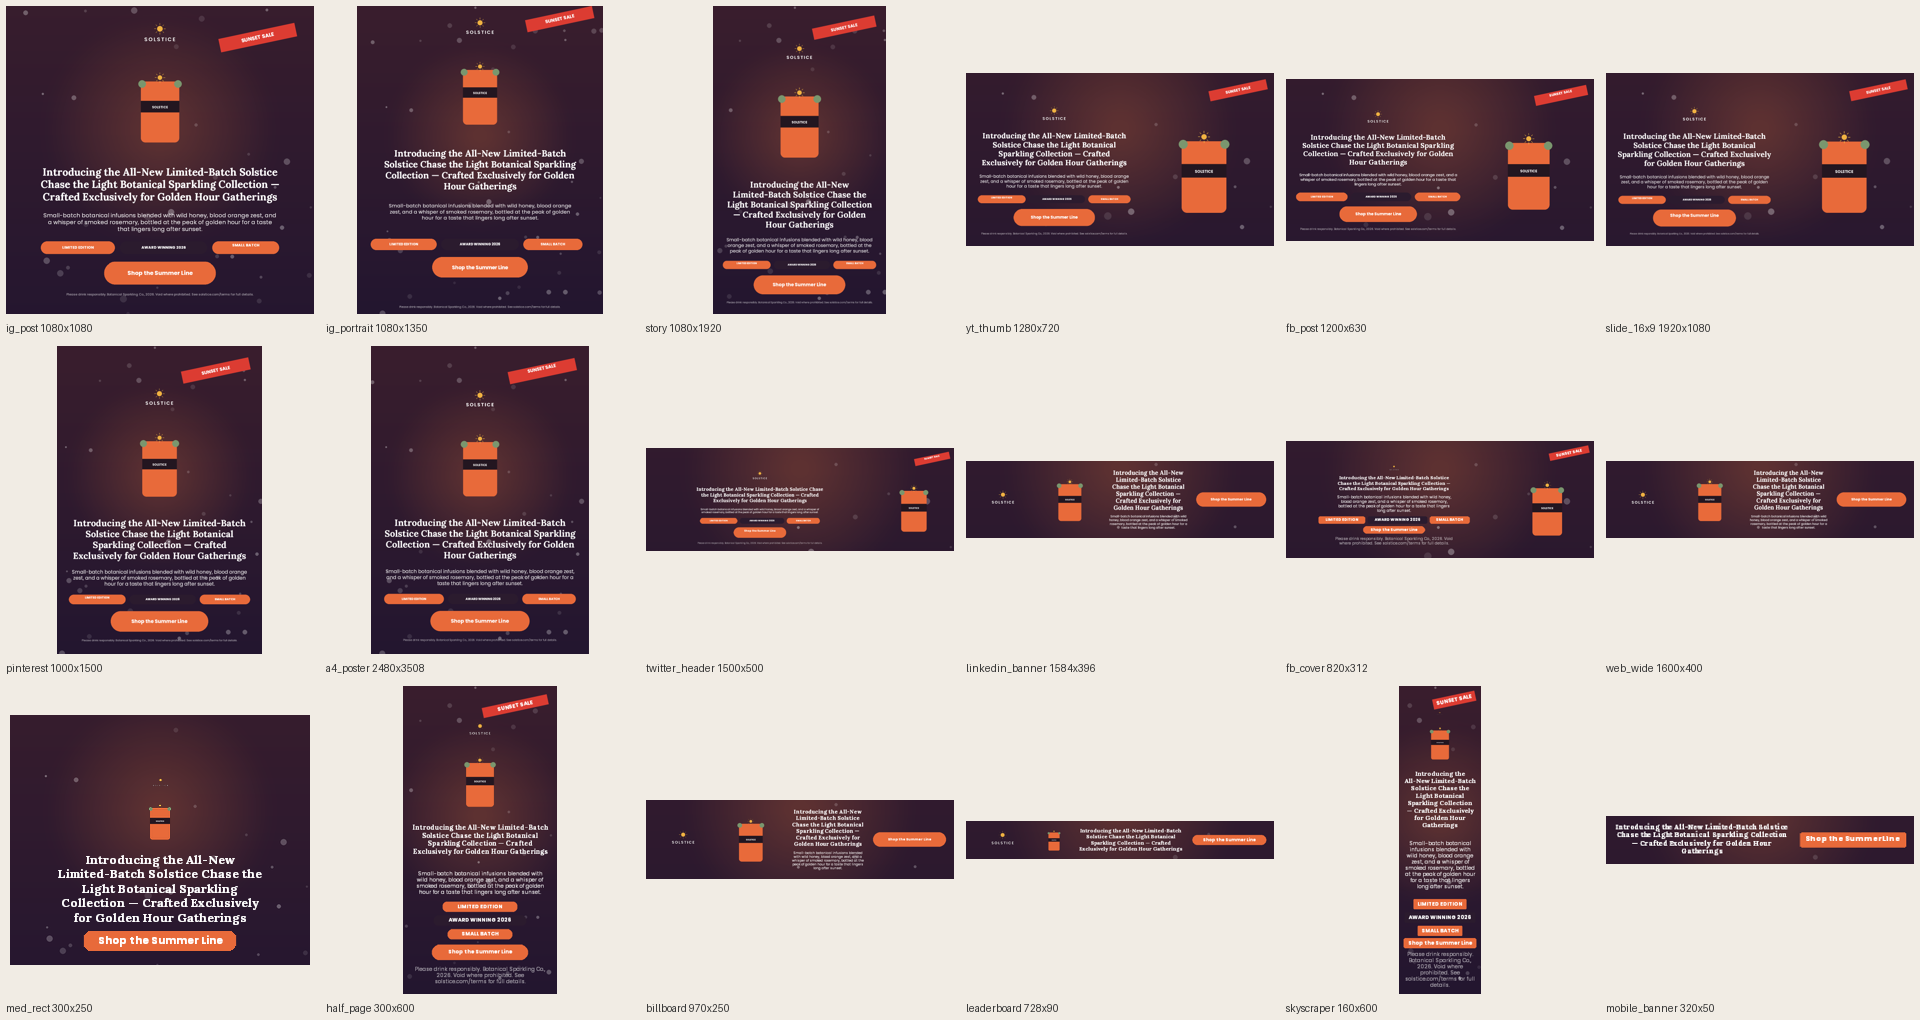
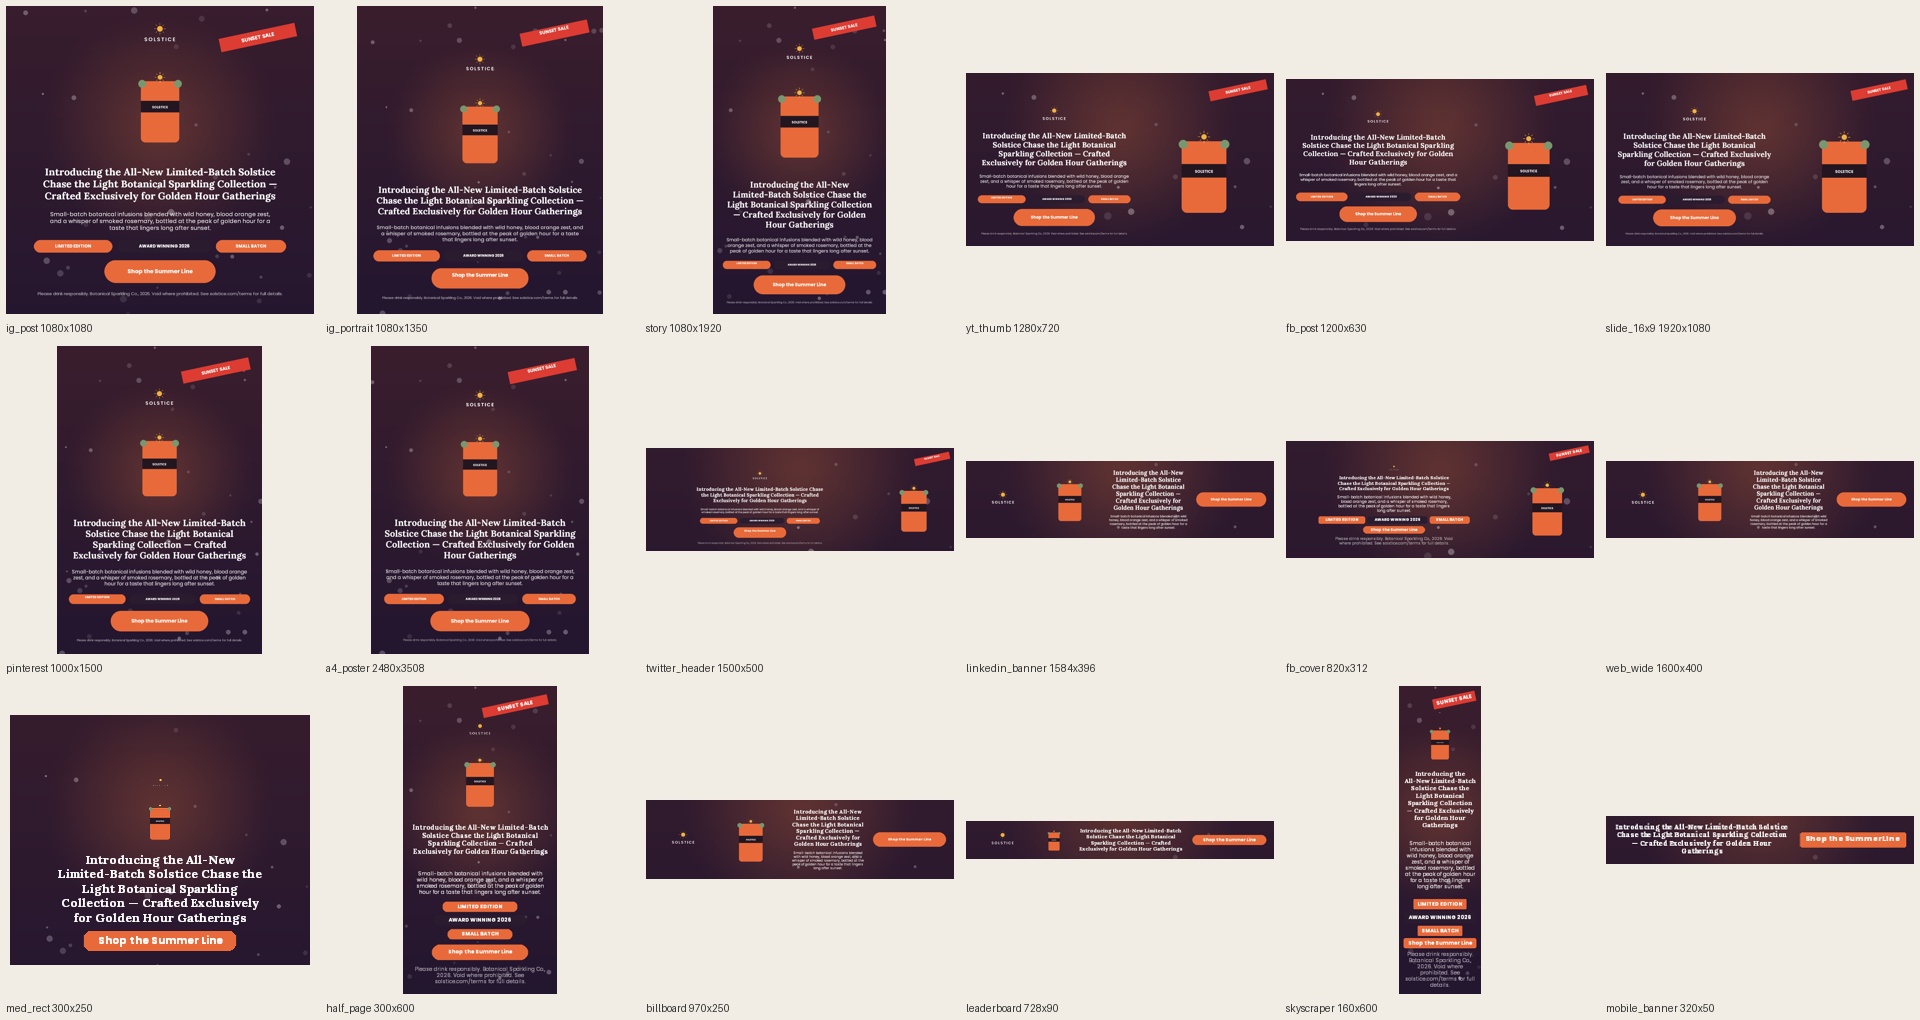
Merge best of aditi branch: regression suite, scaled font floor
- tests/test_resize.py: Aditi's regression suite adapted to this engine's
  contract (216 sample/variant/format cases plus determinism, input
  immutability, injected failures, missing fonts, cwd independence,
  no network, long tokens, missing asset, same-shape preservation)
- Minimum readable font now grows with the canvas (10/12px up to
  15/18px on posters), from Aditi's readable_minimum idea
- Fix: the emergency fallback now hides missing assets too (found by
  Aditi's long-headline variant at 300x250 and 320x50)
- README: three-way team comparison and test instructions

Aditi's IDE files (.idea/) and her alternative engine were not merged;
her engine had 10 text collisions and 81 sub-9px texts on the stress test.

Claude-Session: https://claude.ai/code/session_01JiDhXr6kG7eY4r3guwMKDf

Changed region(s): [[0.1875, 0.0, 0.3125, 0.3039], [0.0, 0.152, 0.1562, 0.3039], [0.0312, 0.5167, 0.125, 0.5471]]

diff --git a/tests/test_resize.py b/tests/test_resize.py
@@ -1,0 +1,249 @@
+"""Offline regression suite: python -m unittest discover -s tests -v
+
+Adapted from the `aditi` branch's suite to this engine's contract. Each
+sample is run as-is and as 8 harder variants (long copy, extra badges, many
+texts, a missing asset, one image, no CTA, no groups) across 8 common
+formats, plus robustness checks (determinism, input immutability, injected
+failures, missing fonts, working directory, no network, long tokens).
+"""
+
+from copy import deepcopy
+import json
+from math import cos, isfinite, radians, sin
+import os
+from pathlib import Path
+from tempfile import TemporaryDirectory
+import unittest
+from unittest.mock import patch
+
+import engine.resize as engine
+
+ROOT = Path(__file__).resolve().parents[1]
+FORMATS = [(1080, 1920), (1280, 720), (728, 90), (820, 312),
+           (1000, 1500), (300, 600), (1600, 400), (1080, 1080)]
+TASKS = [json.loads(path.read_text()) for path in sorted((ROOT / "input").glob("*.json"))]
+
+# fields the engine must never touch (font_size and geometry may change)
+PROTECTED = ("id", "type", "content", "font_family", "font_weight", "font_style",
+             "asset_id", "group_id", "z_index", "rotation", "shape_type",
+             "text_align", "line_height", "letter_spacing", "stroke_color")
+
+
+def variants(source):
+    yield "original", deepcopy(source)
+    for name in ("long_headline", "long_subhead", "extra_badges", "many_texts",
+                 "missing_asset", "one_image", "no_cta", "no_groups"):
+        result = deepcopy(source)
+        texts = sorted((e for e in result["elements"] if e["type"] == "text"),
+                       key=lambda e: -e["font_size"])
+        if name in ("long_headline", "long_subhead"):
+            text = texts[min(1 if name == "long_subhead" else 0, len(texts) - 1)]
+            text["content"] = (text["content"] + " ") * 6
+        elif name == "extra_badges":
+            for i in range(4):
+                group = f"extra_badge_{i}"
+                x, y = 20 + i * 150, source["canvas"]["height"] * 0.3
+                result["elements"].extend([
+                    dict(id=group, type="shape", shape_type="rectangle", fill_color="rgba(90,40,20,0.5)",
+                         x=x, y=y, width=140, height=40, group_id=group, z_index=3),
+                    dict(id=group + "_text", type="text", content=f"BADGE {i}", font_family="Solstice Sans",
+                         font_size=14, color="rgba(255,255,255,1)", x=x + 5, y=y + 5,
+                         width=130, height=30, group_id=group, z_index=4),
+                ])
+        elif name == "many_texts":
+            for i in range(12):
+                text = deepcopy(texts[-1])
+                text.update(id=f"small_text_{i}", content=f"Additional detail {i}", font_size=12,
+                            x=20 + (i % 4) * 200, y=150 + (i // 4) * 80, width=180, height=45)
+                text.pop("group_id", None)
+                result["elements"].append(text)
+        elif name == "missing_asset":
+            next(e for e in result["elements"] if e["type"] == "image")["asset_id"] = "missing-test.png"
+        elif name == "one_image":
+            images = [e for e in result["elements"] if e["type"] == "image"]
+            keep = images[-1]["id"]
+            result["elements"] = [e for e in result["elements"] if e["type"] != "image" or e["id"] == keep]
+        elif name == "no_cta":
+            result["elements"] = [e for e in result["elements"] if not e["id"].startswith("cta")]
+        elif name == "no_groups":
+            for element in result["elements"]:
+                element.pop("group_id", None)
+        yield name, result
+
+
+def _hidden(element):
+    return (element.get("opacity", 1) or 0) <= 0
+
+
+def _box(e):
+    return e["x"], e["y"], e["x"] + e["width"], e["y"] + e["height"]
+
+
+def _overlap(a, b):
+    w = min(a[2], b[2]) - max(a[0], b[0])
+    h = min(a[3], b[3]) - max(a[1], b[1])
+    return w * h if w > 0 and h > 0 else 0.0
+
+
+class ResizeTests(unittest.TestCase):
+    def assert_contract(self, source, target, output):
+        self.assertEqual(output["canvas"], target)
+        self.assertEqual(set(output), {"canvas", "elements"})
+        self.assertEqual([e["id"] for e in output["elements"]], [e["id"] for e in source["elements"]])
+        sw, sh = source["canvas"]["width"], source["canvas"]["height"]
+        width, height = target["width"], target["height"]
+        for original, result in zip(source["elements"], output["elements"]):
+            eid = original["id"]
+            for key in PROTECTED:
+                self.assertEqual(original.get(key), result.get(key), (eid, key))
+            if not _hidden(result):  # hidden text also gets a transparent colour
+                for key in ("color", "fill_color", "style_runs"):
+                    self.assertEqual(original.get(key), result.get(key), (eid, key))
+            for key in ("x", "y", "width", "height"):
+                self.assertTrue(isfinite(result[key]) and result[key] >= -1e-6, (eid, key))
+            self.assertLessEqual(result["x"] + result["width"], width + 1e-6, eid)
+            self.assertLessEqual(result["y"] + result["height"], height + 1e-6, eid)
+            angle = radians(result.get("rotation", 0) or 0)
+            rw = abs(cos(angle)) * result["width"] + abs(sin(angle)) * result["height"]
+            rh = abs(sin(angle)) * result["width"] + abs(cos(angle)) * result["height"]
+            cx, cy = result["x"] + result["width"] / 2, result["y"] + result["height"] / 2
+            self.assertGreaterEqual(cx - rw / 2, -0.5, eid)
+            self.assertGreaterEqual(cy - rh / 2, -0.5, eid)
+            self.assertLessEqual(cx + rw / 2, width + 0.5, eid)
+            self.assertLessEqual(cy + rh / 2, height + 0.5, eid)
+            if original["type"] == "image":
+                covered = (max(0, min(sw, original["x"] + original["width"]) - max(0, original["x"])) *
+                           max(0, min(sh, original["y"] + original["height"]) - max(0, original["y"])))
+                background = covered >= 0.85 * sw * sh
+                if not background and original["width"] and original["height"]:
+                    self.assertAlmostEqual(result["width"] / result["height"],
+                                           original["width"] / original["height"], delta=0.05 * original["width"] / original["height"])
+                if not background:
+                    self.assertEqual(original.get("fit"), result.get("fit"), eid)
+            if original["type"] == "text":
+                self.assertTrue(isfinite(result["font_size"]) and result["font_size"] >= 1, eid)
+
+    def assert_labels_on_shapes(self, source, output):
+        """Grouped labels stay inside their (possibly widened) button shape."""
+        boxes = {e["id"]: e for e in output["elements"]}
+        groups = {}
+        for e in source["elements"]:
+            if e.get("group_id"):
+                groups.setdefault(e["group_id"], []).append(e)
+        for members in groups.values():
+            shapes = [m for m in members if m["type"] == "shape"]
+            if not shapes or any(m.get("rotation") for m in members):
+                continue
+            base = max(shapes, key=lambda m: m["width"] * m["height"])
+            b = boxes[base["id"]]
+            for m in members:
+                if m["type"] != "text" or _hidden(boxes[m["id"]]):
+                    continue
+                t = boxes[m["id"]]
+                self.assertGreaterEqual(t["x"], b["x"] - 1, m["id"])
+                self.assertGreaterEqual(t["y"], b["y"] - 1, m["id"])
+                self.assertLessEqual(t["x"] + t["width"], b["x"] + b["width"] + 1, m["id"])
+                self.assertLessEqual(t["y"] + t["height"], b["y"] + b["height"] + 1, m["id"])
+
+    def test_common_formats_and_variants(self):
+        cases = 0
+        for task in TASKS:
+            for name, source in variants(task["source"]):
+                before = deepcopy(source)
+                for width, height in FORMATS:
+                    with self.subTest(task=task["task_id"], variant=name, size=(width, height)):
+                        target = {"width": width, "height": height}
+                        output = engine.resize(source, target)
+                        self.assert_contract(source, target, output)
+                        self.assert_labels_on_shapes(source, output)
+                        self.assertEqual(source, before)  # input never mutated
+                        self.assertEqual(output, engine.resize(source, target))  # deterministic
+                        cases += 1
+        print(f"Validated {cases} sample/variant/format combinations.", flush=True)
+
+    def test_official_samples_are_readable_and_collision_free(self):
+        for task in TASKS:
+            source, target = task["source"], task["target_canvas"]
+            output = engine.resize(source, target)
+            visible = [e for e in output["elements"] if not _hidden(e)]
+            for e in visible:
+                if e["type"] == "text":
+                    self.assertGreaterEqual(e["font_size"], engine.MIN_FONT, (task["task_id"], e["id"]))
+            texts = [e for e in visible if e["type"] == "text"]
+            content = [e for e in visible if e["type"] == "image"
+                       and _overlap(_box(e), (0, 0, target["width"], target["height"]))
+                       < 0.85 * target["width"] * target["height"]]
+            for t in texts:  # text never sits on a picture
+                for img in content:
+                    self.assertEqual(_overlap(_box(t), _box(img)), 0, (task["task_id"], t["id"], img["id"]))
+
+    def test_banner_reads_left_to_right(self):
+        task = next(t for t in TASKS if t["task_id"] == "core_01")
+        boxes = {e["id"]: e for e in engine.resize(task["source"], task["target_canvas"])["elements"]}
+        self.assertLess(boxes["logo"]["x"], boxes["product"]["x"])
+        self.assertLess(boxes["product"]["x"], boxes["headline"]["x"])
+        self.assertLess(boxes["headline"]["x"], boxes["cta_bg"]["x"])
+
+    def test_same_shape_keeps_original_composition(self):
+        task = next(t for t in TASKS if t["task_id"] == "warmup_01")
+        source = task["source"]
+        output = engine.resize(source, {"width": 2160, "height": 2160})
+        for old, new in zip(source["elements"], output["elements"]):
+            self.assertAlmostEqual(new["x"], old["x"] * 2, delta=1, msg=old["id"])
+            self.assertAlmostEqual(new["y"], old["y"] * 2, delta=1, msg=old["id"])
+
+    def test_missing_asset_is_hidden_not_placeholdered(self):
+        task = next(t for t in TASKS if t["task_id"] == "advanced_01")
+        for width, height in FORMATS:
+            out = engine.resize(task["source"], {"width": width, "height": height})
+            mark = next(e for e in out["elements"] if e["id"] == "holiday_watermark")
+            self.assertEqual(mark["opacity"], 0)
+
+    def test_failures_use_safe_fallback(self):
+        for task in TASKS:
+            for target in (task["target_canvas"], {"width": 300, "height": 600}):
+                with self.subTest(task=task["task_id"], target=target):
+                    with patch.object(engine.Engine, "run", side_effect=RuntimeError("injected failure")):
+                        output = engine.resize(task["source"], target)
+                    self.assert_contract(task["source"], target, output)
+
+    def test_missing_fonts_and_independent_working_directory(self):
+        source = deepcopy(TASKS[0]["source"])
+        for element in source["elements"]:
+            if element["type"] == "text":
+                element["font_family"] = "Unavailable Test Font"
+        target = TASKS[0]["target_canvas"]
+        self.assert_contract(source, target, engine.resize(source, target))
+        previous = os.getcwd()
+        try:
+            with TemporaryDirectory() as directory:
+                os.chdir(directory)
+                original = TASKS[2]["source"]
+                out = engine.resize(original, TASKS[2]["target_canvas"])
+                self.assert_contract(original, TASKS[2]["target_canvas"], out)
+                # assets still resolve from the repo, so the missing one is still hidden
+                mark = next(e for e in out["elements"] if e["id"] == "holiday_watermark")
+                self.assertEqual(mark["opacity"], 0)
+        finally:
+            os.chdir(previous)
+
+    def test_offline_execution(self):
+        with patch("socket.socket.connect", side_effect=AssertionError("network access")):
+            for task in TASKS:
+                self.assert_contract(task["source"], task["target_canvas"],
+                                     engine.resize(task["source"], task["target_canvas"]))
+
+    def test_long_tokens_newlines_and_tight_leading(self):
+        source = deepcopy(TASKS[0]["source"])
+        headline = next(e for e in source["elements"] if e["id"] == "headline")
+        headline.update(content="Supercalifragilisticexpialidocious\nA second line", letter_spacing=1, line_height=1.05)
+        target = {"width": 300, "height": 600}
+        output = engine.resize(source, target)
+        self.assert_contract(source, target, output)
+        out = next(e for e in output["elements"] if e["id"] == "headline")
+        longest = engine._longest_word_width(out, int(out["font_size"]))
+        self.assertLessEqual(longest, out["width"] + 1e-6)
+
+
+if __name__ == "__main__":
+    unittest.main()

diff --git a/engine/resize.py b/engine/resize.py
@@ -1452,7 +1452,11 @@ def _run_engine(source: dict, target_canvas: dict):
     global MIN_FONT, MIN_HEADLINE_FONT
     saved = MIN_FONT, MIN_HEADLINE_FONT
     try:
-        for mins in (saved, (8, 8), (ABS_MIN_FONT, ABS_MIN_FONT)):
+        # readable floor grows with the canvas (idea from the `aditi` branch):
+        # 10/12 px on small canvases, up to 15/18 px on posters
+        k = max(1.0, min(1.5, min(target_canvas["width"], target_canvas["height"]) / 720.0))
+        scaled = (round(saved[0] * k), round(saved[1] * k))
+        for mins in (scaled, saved, (8, 8), (ABS_MIN_FONT, ABS_MIN_FONT)):
             MIN_FONT, MIN_HEADLINE_FONT = mins
             try:
                 eng = Engine(source, target_canvas)
@@ -1483,6 +1487,8 @@ def resize(source: dict[str, Any], target_canvas: dict[str, Any]) -> dict[str, A
             if e["type"] == "image" and len(source["elements"]) > 1 and \
                     _inter(_box(e), (0, 0, sw, sh)) / (sw * sh) > 0.85:
                 props[e["id"]] = {"x": 0, "y": 0, "width": W, "height": H}
+            if e["type"] == "image" and _asset_missing(e.get("asset_id")):
+                hidden_ids.add(e["id"])
     else:
         props = dict(res.props)
         s_dec = min(W / sw, H / sh) if min(W / sw, H / sh) > 0.25 else math.sqrt(W * H / (sw * sh))

diff --git a/README.md b/README.md
@@ -60,7 +60,7 @@ A good resize moves the furniture. We followed five principles, in priority orde
 1. **Respect the original.** If the new canvas has the same shape as the source (within 6%), the designer's own composition is the best layout available. The engine keeps it and only scales it. That happens only if every text stays readable and the source has no overlaps.
 2. **Keep the brand and the hierarchy.** Colours, fonts, copy, logo and product art are never altered. All text scales by one shared factor, so the headline stays the most dominant text, then the subhead, then the fine print.
 3. **Keep designed units together.** Button shape + label, badge, rotated ribbon, image + caption, and a card panel with its contents all move and scale as one unit. Rows of badges or gallery images stay rows (they wrap only if they must).
-4. **Readability comes first.** No body text below 10px (12px for the headline), no text over images, and no cramped word columns. Text is measured with the actual brand fonts, so what the engine plans is what the renderer draws.
+4. **Readability comes first.** No body text below 10px (12px for the headline). On larger canvases the floor grows, up to 15/18px on posters (idea from the `aditi` branch). There is no text over images, and no cramped word columns. Text is measured with the actual brand fonts, so what the engine plans is what the renderer draws.
 5. **Degrade gracefully.** When a canvas is genuinely too small (17 elements into a 728×90 banner), the least important units are hidden in this order: legal → badges / ribbon → secondary text. The headline and CTA are never hidden. Content is never squeezed into illegibility.
 
 ---
@@ -154,10 +154,21 @@ We also fuzz-tested the engine on designs it was never tuned on, including left-
 ### Reproduce the tests
 
 ```bash
+python -m unittest discover -s tests -v              # regression suite (~15 s)
 python -m tools.stress_test                          # all samples x 18 formats -> output/stress/
 python -m tools.stress_test --sizes story,1200x300   # chosen catalogue keys or WxH
 python -m tools.stress_test --no-render              # rule checks only (fast)
 ```
+
+**Regression suite** (`tests/test_resize.py`, adapted from the `aditi` branch). Each sample runs as-is and as 8 harder variants (longer headline, longer subhead, 4 extra badges, 12 extra texts, missing asset, a single image, no CTA, no group ids) across 8 common formats: 216 combinations. Every output must:
+- keep the same ids in the same order
+- leave all protected fields unchanged
+- stay fully on-canvas, including rotated bounds
+- keep image proportions
+- keep button labels inside their buttons
+- give the same output every time, without modifying its input
+
+Further tests cover injected engine failures, missing fonts, running from another working directory, blocked network access, long unbreakable words, the missing-asset case, and same-shape preservation.
 
 For each pair, the stress test does the following:
 - **Checks hard rules:** same ids, unchanged `content` / `font_family` / `asset_id`, nothing off-canvas (including rotated bounds), and images within 5% of their aspect ratio.
@@ -187,17 +198,21 @@ It exits with code 1 if any hard rule fails.
 
 ## Team branches
 
-We built two engines in parallel and compared them with the same stress test (3 designs × 18 formats):
+We built three engines in parallel and compared them with the same stress test (3 designs × 18 formats):
 
-| | `resize.py` (this branch) | `saanvi` branch (`resize_saanvi.py`) |
-|---|---|---|
-| Hard-rule failures | 0 | 0 |
-| Text below 9px | 2 | 60 |
-| Missing asset | hidden cleanly | grey placeholder box |
-| Time per resize | ~15 ms | ~1.5 s |
-| Decorations over text/buttons | 16 / 18 sizes → **1 / 18 after merging Saanvi's idea** | rarely |
+| | `resize.py` (this branch) | `saanvi` branch | `aditi` branch |
+|---|---|---|---|
+| Hard-rule failures | 0 | 0 | 0 |
+| Text collisions | 0 | 0 | 10 |
+| Text below 9px | 2 | 60 | 81 |
+| Missing asset | hidden cleanly | grey placeholder box | grey placeholder box |
+| Time per resize | ~15 ms | ~1.5 s | ~40 ms |
 
-The submitted engine is `resize.py`. From the `saanvi` branch we merged its free-space decoration placement, which was clearly better than our fixed-corner anchoring. Her full column-composition engine remains on that branch for reference.
+The submitted engine is `resize.py`. We merged the best idea from each teammate's branch:
+- **From `saanvi`:** free-space placement of decorations. Decorations now cover text or buttons in 1 of 18 sizes instead of 16.
+- **From `aditi`:** the regression test suite (adapted to this engine's contract) and a minimum font size that grows with the canvas. Her design variations also exposed a bug: the emergency fallback didn't hide missing assets. That is now fixed.
+
+Their full engines remain on their branches for reference.
 
 ## Repository layout
 
@@ -205,6 +220,7 @@ The submitted engine is `resize.py`. From the `saanvi` branch we merged its free
 engine/resize.py        the engine (all of our logic)
 engine/main.py          starter orchestrator: input/ -> resize() -> output/ (unchanged)
 tools/stress_test.py    multi-format test harness + contact sheets
+tests/test_resize.py    regression suite (python -m unittest discover -s tests -v)
 docs/results/           committed renders of the results above
 renderer/               vendored converter around cr-renderer (unchanged)
 brand_kit/              brand fonts and assets
